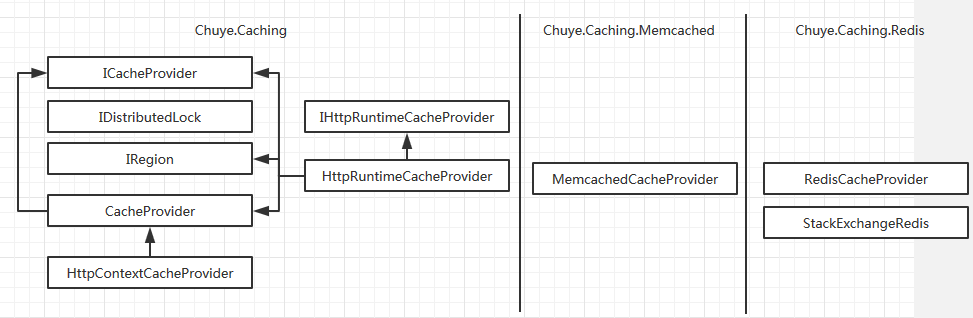
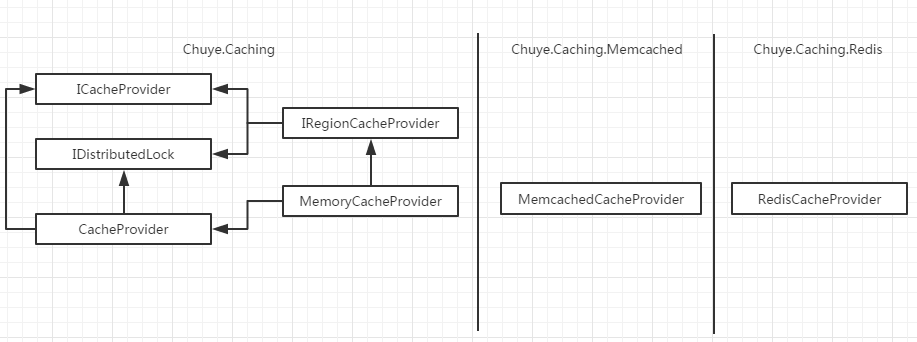
Update README.md and package scripts

diff --git a/README.md b/README.md
@@ -7,42 +7,49 @@
 
 ## Usage
 
-### HttpRuntimeCacheProvider
+### ICacheProvider
 
 ```c
-    IHttpRuntimeCacheProvider cacheProvider 
-        = new HttpRuntimeCacheProvider();
-        // MemcachedCacheProvider.Default;                     //using memcached, load from configuration
-        // new RedisCacheProvider(StackExchangeRedis.Default)  //using redis, load from configuration
-    var exist = cacheProvider.TryGet<Object>(key, out val);
-    Assert.IsFalse(exist);
-    Assert.AreEqual(val, null);
+ICacheProvider cacheProvider
+	//= new MemoryCacheProvider();
+	//= MemcachedCacheProvider.Default;      //using memcached, load from configuration
+	= new RedisCacheProvider("ubuntu-16");   //using redis, load from configuration
 
-    cacheProvider.Overwrite(key, val);
-    exist = cacheProvider.TryGet<Object>(key, out val);
-    Assert.IsNull(val);
+var exist = cacheProvider.TryGet<Object>(key, out val);
+Assert.IsFalse(exist);
+Assert.AreEqual(val, null);
+
+cacheProvider.Overwrite(key, val);
+exist = cacheProvider.TryGet<Object>(key, out val);
+Assert.IsNull(val);
 ```
+
+
+More detail in [MemcachedCacheProviderTest](src/Chuye.Caching.Tests/Memcached/MemcachedCacheProviderTest.cs)
+  or [RedisCacheProviderTest](src/Chuye.Caching.Tests/Redis/RedisCacheProviderTest.cs)
+  
 
 ### Dependency injection
 
 ```c
 // prepare
 {
-    var builder = new ContainerBuilder();
-    builder.RegisterType<HttpRuntimeCacheProvider>()
-        //.Register(_ => MemcachedCacheProvider.Default) //use memcached from config
-        //.Register(_ => new RedisCacheProvider(StackExchangeRedis.Default)) //use redis from config
-        .As<IRegionHttpRuntimeCacheProvider>();
-    
-    var container = builder.Build();
+	var builder = new ContainerBuilder();
+	//use memcached from config
+	builder.RegisterInstance(MemcachedCacheProvider.Default)
+		.As<IRegionCacheProvider>();
+
+	//use redis with connectionString
+	builder.RegisterInstance(new RedisCacheProvider("ubuntu-16"))
+		.As<IRegionCacheProvider>();
 }
 
 // concreate
 {
-    private readonly IRegionHttpRuntimeCacheProvider _userCache;
-    private readonly IRegionHttpRuntimeCacheProvider _loginCache;
+    private readonly IRegionCacheProvider _userCache;
+    private readonly IRegionCacheProvider _loginCache;
 
-    public SomeController(IRegionHttpRuntimeCacheProvider cacheProvider) {
+    public SomeController(IRegionCacheProvider cacheProvider) {
         _userCache = cacheProvider.Switch("user");
         _loginCache = cacheProvider.Switch("login");
     }
@@ -50,18 +57,14 @@
 
 ```
 
-
-
-More detail in [HttpRuntimeCacheProviderTest](src/Chuye.Caching.Tests/HttpRuntimeCache/HttpRuntimeCacheProviderTest.cs)
-
 ### DistributedLock
 
 ```c
     IDistributedLock cache 
         = MemcachedCacheProvider.Default; 
-        //= new RedisCacheProvider(StackExchangeRedis.Default);   //U could using redis directly though
-    var key = "DistributedLock";
-
+        //= new RedisCacheProvider("ubuntu-16");   //You could using redis directly though
+    
+	var key = "DistributedLock";
     var list = new List<int>();
     var except = new Random().Next(1000, 2000);
     var stopwatch = Stopwatch.StartNew();
@@ -78,12 +81,13 @@ More detail in [HttpRuntimeCacheProviderTest](src/Chuye.Caching.Tests/HttpRuntim
 
     Assert.AreEqual(list.Count, except);
 ```
-
-More detail in [MemcachedCacheProviderTest](src/Chuye.Caching.Tests/Memcached/MemcachedCacheProviderTest.cs)
-  or [RedisCacheProviderTest](src/Chuye.Caching.Tests/Redis/RedisCacheProviderTest.cs)
-  
   
 ## Release log
+
+### 2.5 合并与简化接口
+
+* 移除基于 HttpContext 的缓存实现;
+* 重构配置生效方式
 
 ### 2.4 添加基于配置的扩展能力
 
@@ -91,8 +95,4 @@ More detail in [MemcachedCacheProviderTest](src/Chuye.Caching.Tests/Memcached/Me
 * 缓存路径即 region+key 的拼接方式可以通过配置修改，以方便迁移；
 * 在没有显式指示缓存时间时，可以使用配置中的默认过期时间;
 * 可以通过切换 region 生成新的实例以满足依赖注入的需求
-
-### 2.3  简化 api 接口
-
-* 修复 Memcached 分布式锁未正确释放的问题;
   
